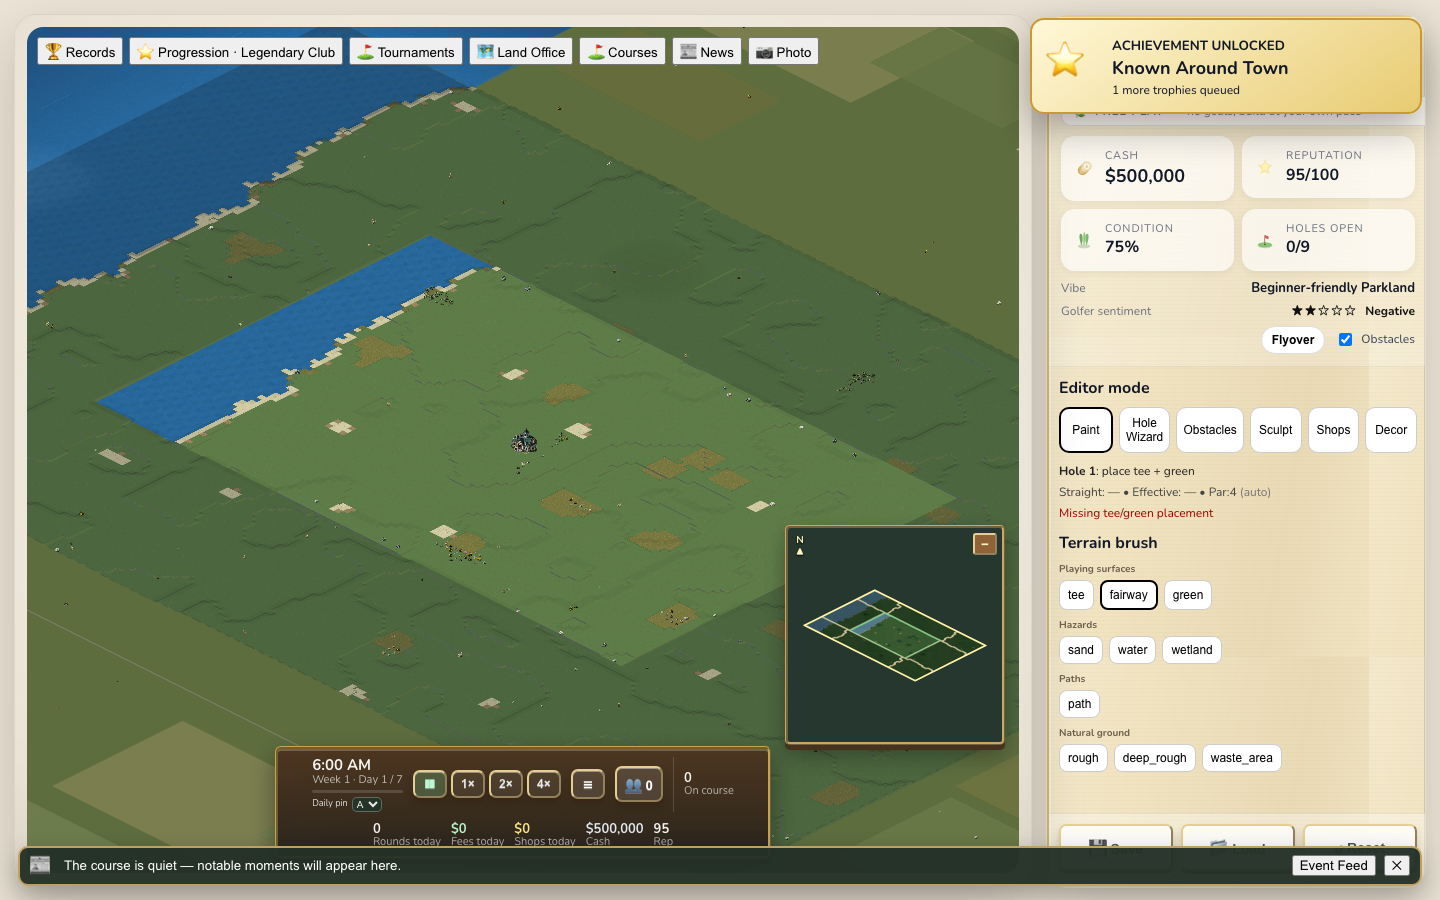
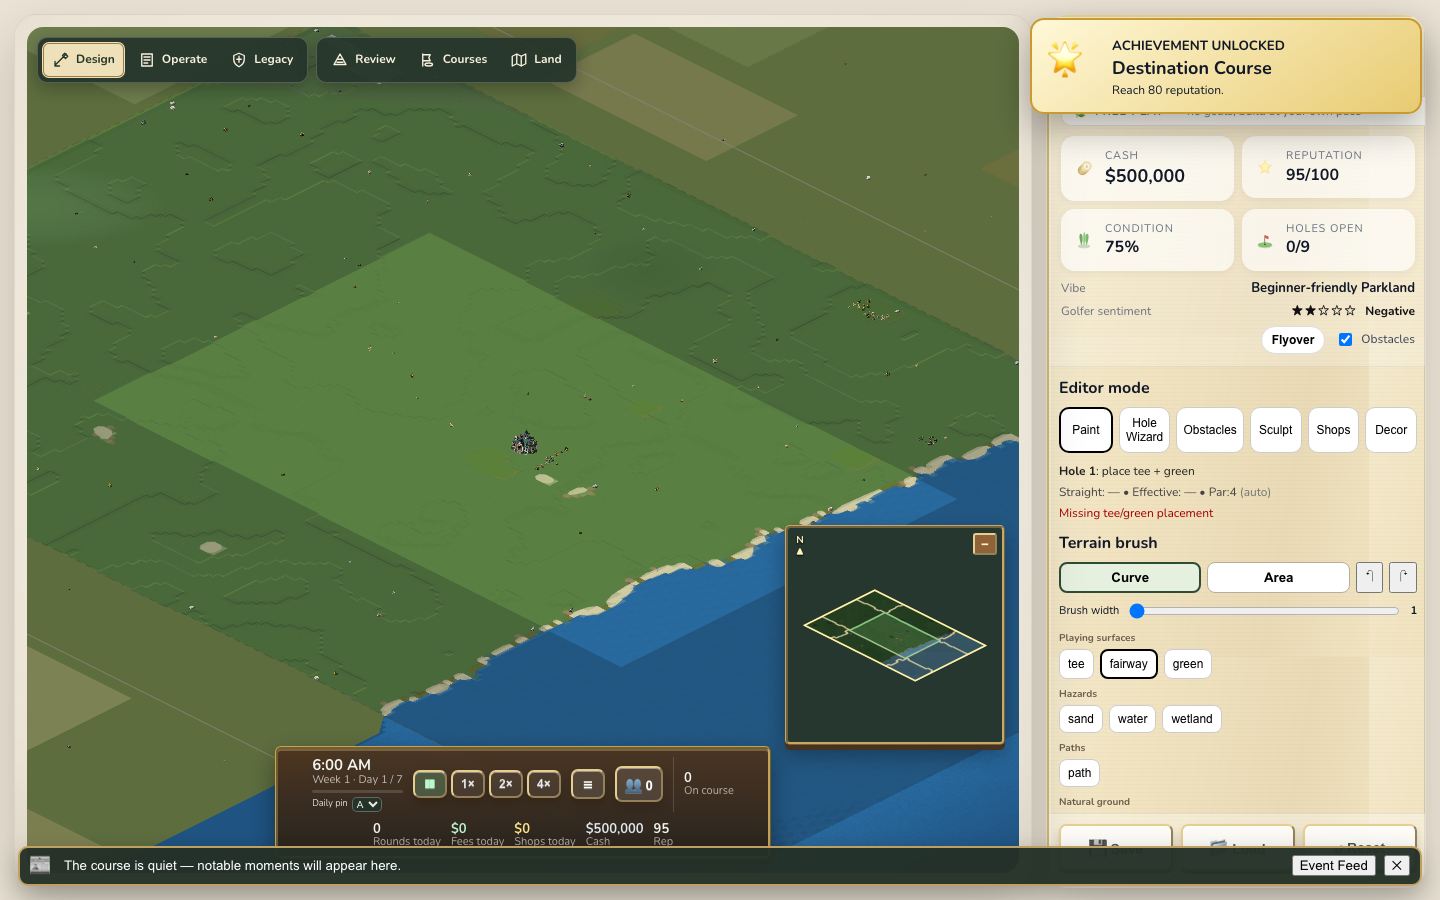
Fix estate-wide Links coastline continuity

diff --git a/simgolf-lite/src/game/gen/newGame.test.ts b/simgolf-lite/src/game/gen/newGame.test.ts
@@ -1,8 +1,11 @@
 import { describe, expect, it } from "vitest";
 import { createNewGame } from "./newGame";
+import { generateWildLandWithObstacles } from "./generateWildLand";
 import type { GameSetup } from "../models/setup";
 import { CHALLENGE_GOALS } from "../objectives/goals";
 import { DEFAULT_WORLD } from "../models/defaults";
+import { COURSE_HEIGHT, COURSE_WIDTH, STARTER_PARCEL_HEIGHT, STARTER_PARCEL_WIDTH } from "../models/constants";
+import { starterParcelOffset } from "../estate/estate";
 
 function setup(over: Partial<GameSetup> = {}): GameSetup {
   return {
@@ -27,6 +30,71 @@ describe("createNewGame (ZKU-162)", () => {
     const a = createNewGame(setup({ seed: 1 }));
     const b = createNewGame(setup({ seed: 2 }));
     expect(a.course.tiles).not.toEqual(b.course.tiles);
+  });
+
+  it("uses one estate-wide natural baseline instead of regenerating the starter parcel", () => {
+    const seed = 250025;
+    const generated = generateWildLandWithObstacles(COURSE_WIDTH, COURSE_HEIGHT, seed, [], "links");
+    const { course } = createNewGame(setup({ seed, theme: "links" }));
+
+    expect(course.tiles).toEqual(generated.tiles);
+    expect(course.elevations).toEqual(generated.elevations);
+    for (const obstacle of generated.obstacles) {
+      expect(course.obstacles).toContainEqual(obstacle);
+    }
+  });
+
+  it("lets an estate coastline cross the starter boundary without a clipped water seam", () => {
+    const { course } = createNewGame(setup({ seed: 7, theme: "links" }));
+    const offset = starterParcelOffset();
+    const insideStarter = (index: number) => {
+      const x = index % course.width;
+      const y = Math.floor(index / course.width);
+      return x >= offset.x && x < offset.x + STARTER_PARCEL_WIDTH
+        && y >= offset.y && y < offset.y + STARTER_PARCEL_HEIGHT;
+    };
+    const water = course.tiles
+      .map((terrain, index) => terrain === "water" ? index : -1)
+      .filter((index) => index >= 0);
+    const edgeWater = water.filter((index) => {
+      const x = index % course.width;
+      const y = Math.floor(index / course.width);
+      return x === 0 || y === 0 || x === course.width - 1 || y === course.height - 1;
+    });
+    const connected = new Set(edgeWater);
+    const queue = [...edgeWater];
+    while (queue.length > 0) {
+      const index = queue.shift()!;
+      const x = index % course.width;
+      const y = Math.floor(index / course.width);
+      const neighbors = [
+        x > 0 ? index - 1 : -1,
+        x + 1 < course.width ? index + 1 : -1,
+        y > 0 ? index - course.width : -1,
+        y + 1 < course.height ? index + course.width : -1,
+      ];
+      for (const next of neighbors) {
+        if (next >= 0 && course.tiles[next] === "water" && !connected.has(next)) {
+          connected.add(next);
+          queue.push(next);
+        }
+      }
+    }
+
+    expect(water.some(insideStarter)).toBe(true);
+    expect(water.some((index) => !insideStarter(index))).toBe(true);
+    expect(water.every((index) => connected.has(index))).toBe(true);
+    expect(water.some((index) => {
+      if (!insideStarter(index)) return false;
+      const x = index % course.width;
+      const y = Math.floor(index / course.width);
+      return [
+        x > 0 ? index - 1 : -1,
+        x + 1 < course.width ? index + 1 : -1,
+        y > 0 ? index - course.width : -1,
+        y + 1 < course.height ? index + course.width : -1,
+      ].some((next) => next >= 0 && !insideStarter(next) && course.tiles[next] === "water");
+    })).toBe(true);
   });
 
   it("records name, theme, mode, difficulty, founder on the run", () => {

diff --git a/simgolf-lite/src/game/gen/newGame.ts b/simgolf-lite/src/game/gen/newGame.ts
@@ -3,12 +3,12 @@ import type { GameSetup } from "../models/setup";
 import type { GoalDefinition } from "../models/objectives";
 import { createObjectiveState } from "../models/objectives";
 import { DEFAULT_COURSE, DEFAULT_WORLD } from "../models/defaults";
-import { COURSE_WIDTH, COURSE_HEIGHT, STARTER_PARCEL_HEIGHT, STARTER_PARCEL_WIDTH } from "../models/constants";
+import { COURSE_WIDTH, COURSE_HEIGHT } from "../models/constants";
 import { findClubhouseSpot } from "../models/buildings";
 import { CHALLENGE_GOALS } from "../objectives/goals";
 import { getDifficultyProfile } from "../balance/difficulty";
 import { generateWildLandWithObstacles } from "./generateWildLand";
-import { createEstate, starterParcelOffset } from "../estate/estate";
+import { createEstate } from "../estate/estate";
 import { normalizeCourseLayouts } from "../models/courseLayouts";
 import { createDefaultPlayerPro } from "../playerPro/playerPro";
 import { createSeasonalState } from "../seasons/seasons";
@@ -33,28 +33,6 @@ export function createNewGame(
     [], // no reserved zones — holes aren't placed yet
     setup.theme
   );
-  // Preserve the original seeded 110x70 land experience inside the starter
-  // property. Estate-scale generation supplies the eight outer surveys;
-  // the centered overlay keeps established seeds/tutorial routes familiar.
-  const starter = generateWildLandWithObstacles(
-    STARTER_PARCEL_WIDTH,
-    STARTER_PARCEL_HEIGHT,
-    seed,
-    [],
-    setup.theme
-  );
-  const offset = starterParcelOffset();
-  for (let y = 0; y < STARTER_PARCEL_HEIGHT; y++) for (let x = 0; x < STARTER_PARCEL_WIDTH; x++) {
-    const source = y * STARTER_PARCEL_WIDTH + x;
-    const target = (y + offset.y) * COURSE_WIDTH + x + offset.x;
-    tiles[target] = starter.tiles[source];
-    elevations[target] = starter.elevations[source];
-  }
-  for (let index = obstacles.length - 1; index >= 0; index--) {
-    const obstacle = obstacles[index];
-    if (obstacle.x >= offset.x && obstacle.x < offset.x + STARTER_PARCEL_WIDTH && obstacle.y >= offset.y && obstacle.y < offset.y + STARTER_PARCEL_HEIGHT) obstacles.splice(index, 1);
-  }
-  obstacles.push(...starter.obstacles.map((obstacle) => ({ ...obstacle, x: obstacle.x + offset.x, y: obstacle.y + offset.y })));
 
   const course: Course = {
     ...DEFAULT_COURSE,

diff --git a/simgolf-lite/src/App.tsx b/simgolf-lite/src/App.tsx
@@ -1174,6 +1174,9 @@ export default function App() {
     const isPerfMeasurement = fixtureParams.get("perfMeasure") === "1";
     if (!isPerfFixture && !isM19Fixture && !isM20Fixture && !isM21Fixture && !isM22Fixture && !isM23Fixture && !isM24Fixture && !isM25Fixture && !isM26Fixture && !isM27Fixture && !isM30Fixture && !isM38Fixture && !isPropertyFixture) return;
     perfFixtureLoadedRef.current = true;
+    const m25SeedParam = fixtureParams.get("m25Seed");
+    const parsedM25Seed = m25SeedParam == null ? Number.NaN : Number(m25SeedParam);
+    const m25Seed = Number.isInteger(parsedM25Seed) ? parsedM25Seed | 0 : 250025;
     const fixtureRepParam = fixtureParams.get("m7Rep");
     const fixtureRep = fixtureRepParam == null ? Number.NaN : Number(fixtureRepParam);
     const requestedTheme = fixtureParams.get("m22Theme") ?? fixtureParams.get("m21Theme") ?? fixtureParams.get("m20Theme") ?? fixtureParams.get("perfTheme");
@@ -1189,7 +1192,7 @@ export default function App() {
       : isM26Fixture
       ? createM26MultiCourseReferenceCourse()
       : isM25Fixture
-      ? createNewGame({ mode: "sandbox", courseName: "M25 Survey Estate", seed: 250025, theme: fixtureTheme, difficulty: "normal", sandboxOverrides: { startingCash: 500_000 } }).course
+      ? createNewGame({ mode: "sandbox", courseName: "M25 Survey Estate", seed: m25Seed, theme: fixtureTheme, difficulty: "normal", sandboxOverrides: { startingCash: 500_000 } }).course
       : isM24Fixture
       ? createTournamentStandardsCourse()
       : isM23Fixture
@@ -1226,7 +1229,7 @@ export default function App() {
       week: 1,
       cash: isPropertyFixture ? 1_000_000 : isM25Fixture ? 500_000 : 250_000,
       reputation: Number.isFinite(fixtureRep) ? Math.max(0, Math.min(100, fixtureRep)) : 95,
-      runSeed: 12160,
+      runSeed: isM25Fixture ? m25Seed : 12160,
       isBankrupt: false,
       distressWeeks: 0,
       mode: "sandbox" as const,

diff --git a/simgolf-lite/src/game/gen/generateWildLand.ts b/simgolf-lite/src/game/gen/generateWildLand.ts
@@ -167,8 +167,12 @@ export function generateWildLand(
     const edge = rng.nextInt(0, 3); // 0=N 1=E 2=S 3=W
     const along = edge === 0 || edge === 2 ? width : height;
     const across = edge === 0 || edge === 2 ? height : width;
-    const minDepth = Math.max(5, Math.floor(across * 0.11));
-    const maxDepth = Math.max(minDepth + 2, Math.floor(across * 0.22));
+    // Estates need both shallow coastal sites and occasional bays that reach
+    // the central starter property. Keeping the range proportional makes the
+    // same generator work for previews and full 220×140 maps while leaving
+    // most of every estate buildable.
+    const minDepth = Math.max(5, Math.floor(across * 0.16));
+    const maxDepth = Math.max(minDepth + 2, Math.floor(across * 0.32));
     let depth = rng.nextInt(minDepth, maxDepth);
     for (let i = 0; i < along; i++) {
       // Low-frequency random walk makes bays and headlands without isolated

diff --git a/simgolf-lite/e2e/scenic-surround.e2e.ts b/simgolf-lite/e2e/scenic-surround.e2e.ts
@@ -4,8 +4,10 @@ test("regional canvas keeps Links ocean and countryside continuous at overview a
   const consoleErrors: string[] = [];
   page.on("console", (message) => { if (message.type() === "error") consoleErrors.push(message.text()); });
   await page.setViewportSize({ width: 1440, height: 900 });
-  await page.goto("/?m25Fixture=1&m22Theme=links");
+  await page.goto("/?m25Fixture=1&m22Theme=links&m25Seed=25");
   await expect.poll(() => page.evaluate(() => JSON.parse(window.render_game_to_text?.() ?? "{}").screen)).toBe("game");
+  const starter = await page.evaluate(() => JSON.parse(window.render_game_to_text?.() ?? "{}").course.estate.parcels.find((parcel: { id: string }) => parcel.id === "parcel-5"));
+  expect(starter.traits).toContain("water");
 
   const canvas = page.locator(".cc-pixi-stage canvas").first();
   await expect(canvas).toBeVisible();

diff --git a/simgolf-lite/src/game/gen/themes.test.ts b/simgolf-lite/src/game/gen/themes.test.ts
@@ -72,7 +72,7 @@ describe("land themes (ZKU-166)", () => {
       const tiles = gen(seed, "links").tiles;
       const water = tiles.reduce<number[]>((indices, tile, index) => tile === "water" ? [...indices, index] : indices, []);
       expect(water.length / tiles.length).toBeGreaterThan(0.1);
-      expect(water.length / tiles.length).toBeLessThan(0.28);
+      expect(water.length / tiles.length).toBeLessThan(0.31);
 
       const edgeWater = water.filter((index) => {
         const x = index % W;

diff --git a/progress.md b/progress.md
@@ -1,5 +1,23 @@
 Original prompt: Complete ZK-177 and ZK-178, clean the worktree, commit, and push.
 
+## 2026-07-24 — ZK-444 estate-wide Links coastline fix in progress
+
+Current request: “ok lets go fix that please”
+
+- Confirmed fresh-game generation created a 220×140 natural estate and then overwrote the centered 110×70 starter property with a second independently generated map.
+- Removed the starter-map terrain/elevation/obstacle splice so every parcel now inherits one estate-wide natural baseline.
+- Expanded Links coastline depth variation so some full-estate seeds reach the central starter property while others remain inland, without making the starter generate its own ocean.
+- Added focused regression coverage for exact estate-baseline inheritance and edge-connected ocean continuity across the starter-property boundary.
+- Focused new-game, theme, estate, and scenic-surround verification passes: 30 tests.
+- Added a seed-selectable M25 browser fixture and pinned the scenic Links regression to seed 25, where the starter parcel includes estate-generated ocean.
+- The dedicated scenic-surround Playwright test passes; full-page overview and edge captures were inspected and show one continuous estate/regional coast with no starter-map rectangle.
+- The required bundled web-game client reports valid Links estate state with a water-bearing starter parcel and no console-error artifact. Its headed minimap capture was inspected; the direct main-canvas headless capture remains black under software WebGL, while the full-page Playwright renderer capture is correct.
+- Final verification passes: 70 Vitest files / 441 tests with one intentional skip, production build and asset audits, lint/i18n with seven existing hook warnings and no errors, `git diff --check`, and the focused scenic-surround browser regression.
+
+## ZK-444 remaining
+
+- None. The code fix and automated/visual regression coverage are complete.
+
 ## 2026-07-24 — Golden-path save/reload CI repair
 
 - Reproduced the pushed GitHub Actions failure locally and inspected the Playwright trace; there were no browser console or network errors.
